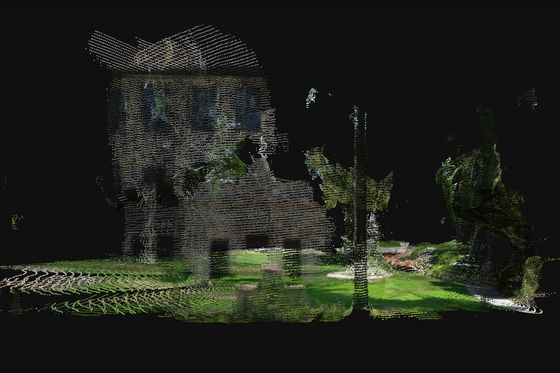
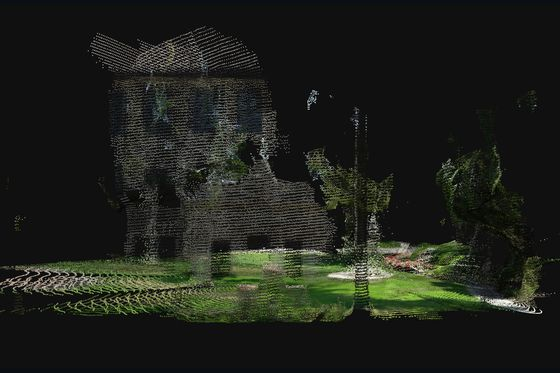
Рисунки сцен без лазерного GT: общий ракурс 16 и 100 кадров

diff --git a/pipeline/figures.py b/pipeline/figures.py
@@ -480,8 +480,9 @@ def pred_cloud_figure(dataset, scene, method, out_path):
     aligned = apply_sim3(pred_points, params)
     # Percentile box, not a ball around the camera centres: see common.percentile_box.
     low, high = percentile_box(aligned)
-    aligned, pred_colours = render_sample(aligned, pred_colours,
-                                          float(np.linalg.norm(high - low)), seed=3)
+    reference = scene_reference(scene)
+    extent = reference["extent"] if reference is not None else float(np.linalg.norm(high - low))
+    aligned, pred_colours = render_sample(aligned, pred_colours, extent, seed=3)
     keep = np.all((aligned > low) & (aligned < high), axis=1)
     aligned, pred_colours = aligned[keep], pred_colours[keep]
     with np.load(GT / dataset / scene / "cameras.npz") as handle:
@@ -493,9 +494,17 @@ def pred_cloud_figure(dataset, scene, method, out_path):
     other = int(np.argmax(angles))
     basis_other = view_basis(extrinsics[other])
     figure, axes = plt.subplots(1, 2, figsize=(12, 4.8))
-    draw_cloud(axes[0], aligned, pred_colours, basis,
-               "%s: камера GT 0, %d точек, x%.2f sim(3)" % (method, len(aligned), params["s"]),
-               limits=robust_limits([aligned], basis), point_size=1.8, wrap=56)
+    if reference is not None:
+        # Same viewpoint and frame as every other figure of the scene, so the 16- and 100-frame
+        # versions of this panel show the same side of the scene instead of two private ones.
+        basis = reference["basis"]
+        first_limits = fit_aspect(reference["box"], 1.6)
+        first_title = "%s: общий ракурс сцены, %d точек, x%.2f sim(3)" % (method, len(aligned), params["s"])
+    else:
+        first_limits = robust_limits([aligned], basis)
+        first_title = "%s: камера GT 0, %d точек, x%.2f sim(3)" % (method, len(aligned), params["s"])
+    draw_cloud(axes[0], aligned, pred_colours, basis, first_title,
+               limits=first_limits, point_size=1.8, wrap=56)
     draw_cloud(axes[1], aligned, pred_colours, basis_other,
                "то же облако, камера GT %d: самый другой ракурс, %.0f°" % (other, angles[other]),
                limits=robust_limits([aligned], basis_other), point_size=1.8, wrap=56)
